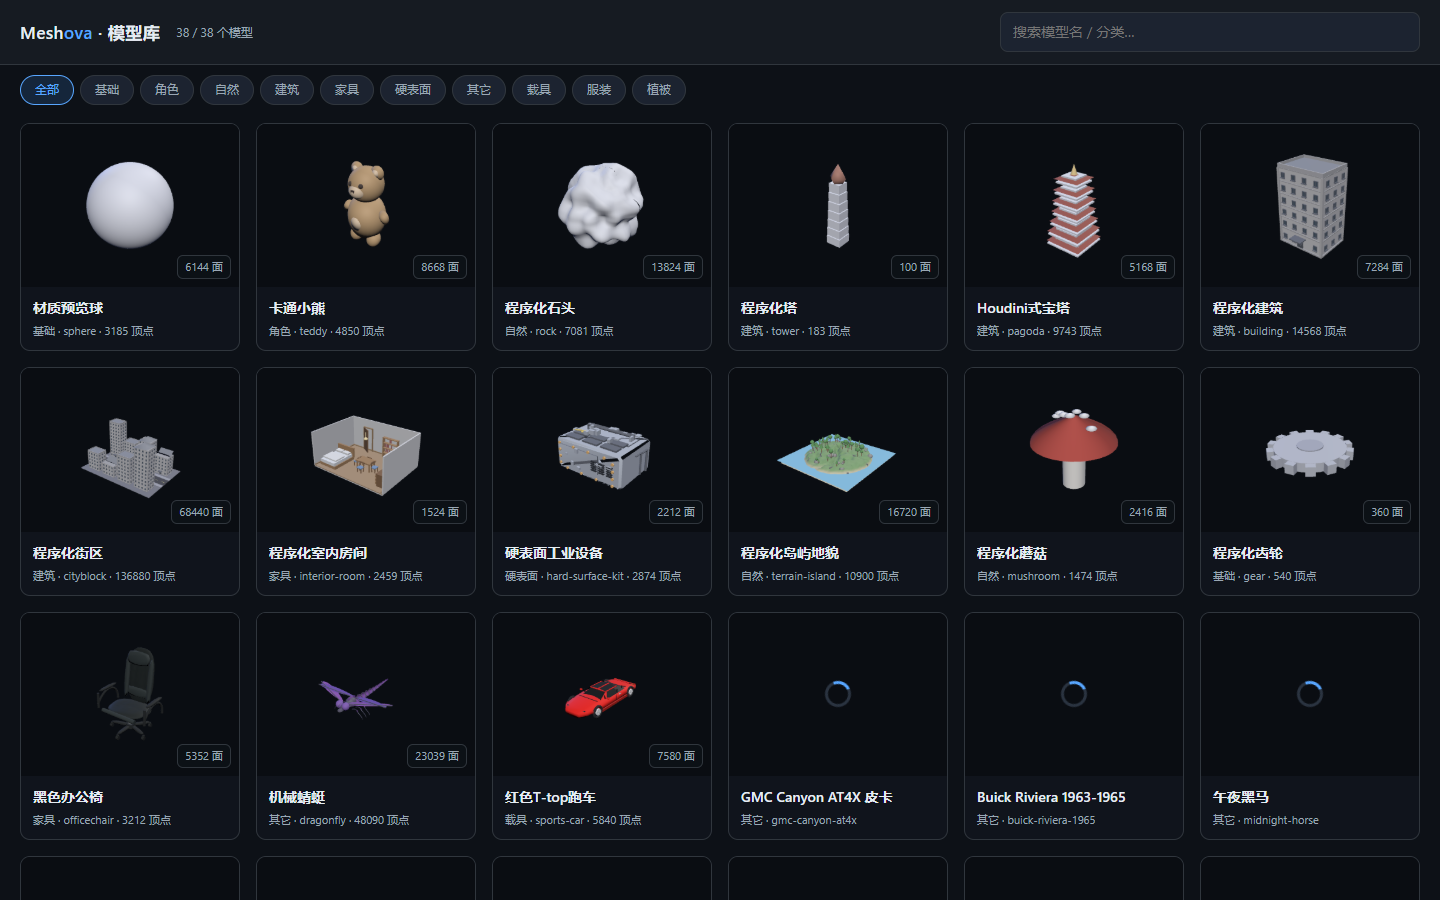
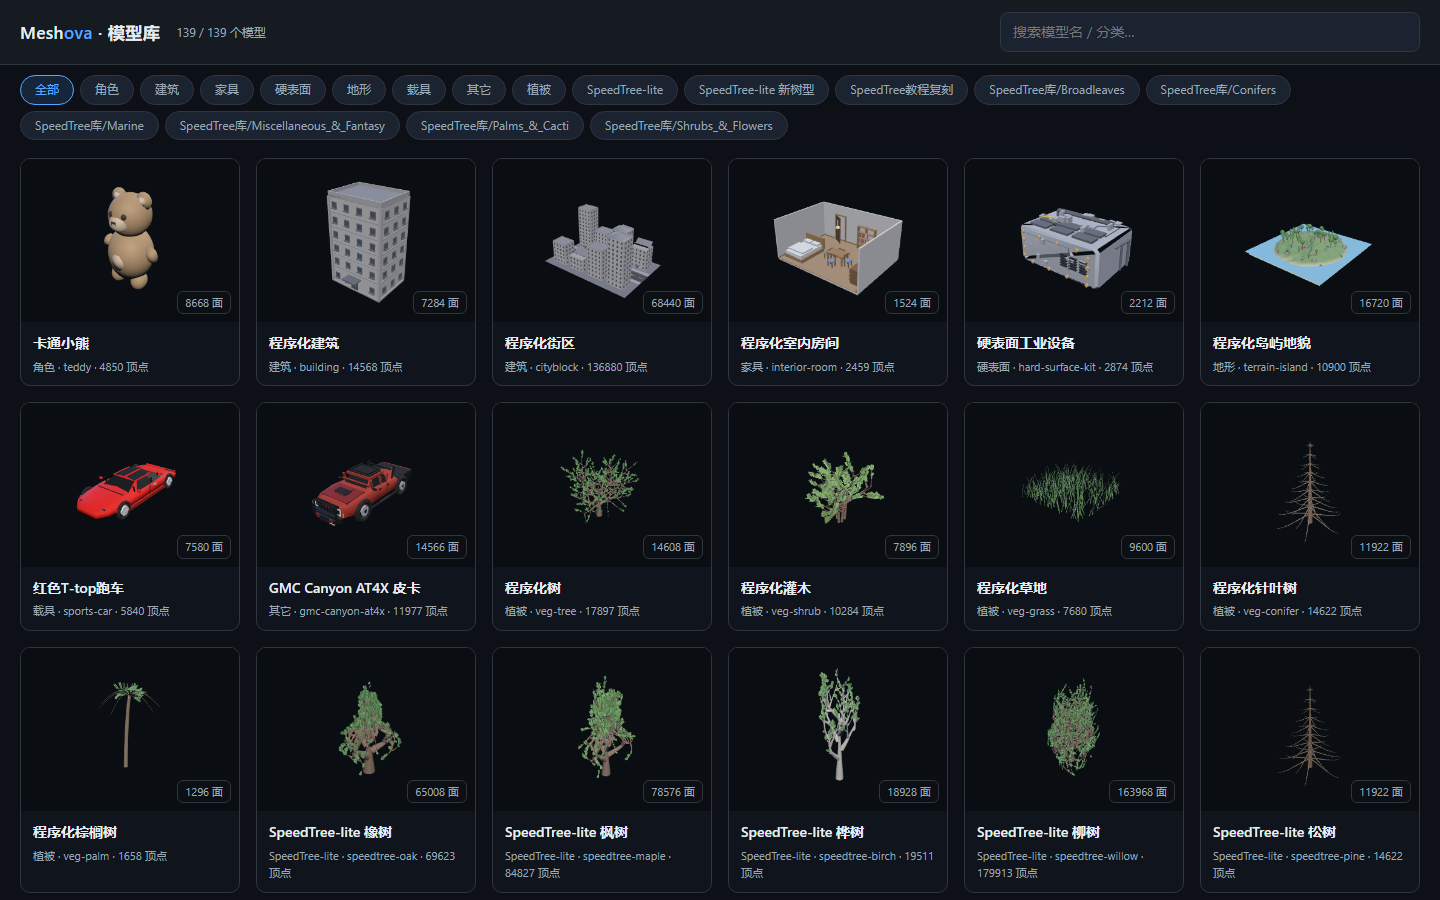
Curate gallery order and refresh README screenshots
Show hand-authored models before SpeedTree entries so the gallery
first screen is representative. Recapture README screenshots from the
fixed build (no stuck thumbnails).

diff --git a/web/gallery.js b/web/gallery.js
@@ -1,5 +1,5 @@
 /**
- * Meshova 模型库 — Sketchfab 风格卡片网格。
+ * Meshova 模型库 — 程序化模型卡片网格。
  *
  * 复用与 viewer/CLI 同一套 /dist 几何库：为每个 PROC_MODEL 用默认参数
  * build() 一次，离屏渲染一张缩略图烘成 dataURL 放进卡片。点击卡片跳转到
@@ -7,6 +7,7 @@
  */
 import * as THREE from "three";
 import { PROC_MODELS, defaultParams } from "/web/procmodels.js";
+import { isGalleryModelVisible } from "/web/model-visibility.js";
 
 // 分类：把模型 id 归到便于浏览的组，未列出的归“其它”。
 const CATEGORY = {
@@ -16,13 +17,79 @@ const CATEGORY = {
   "hard-surface-kit": "硬表面",
   officechair: "家具", wineglass: "家具", "interior-room": "家具",
   tower: "建筑", pagoda: "建筑", building: "建筑", cityblock: "建筑",
-  rock: "自然", mushroom: "自然", meadow: "自然", fterrain: "自然", vine: "自然",
-  "terrain-island": "自然",
+  rock: "自然", mushroom: "自然", meadow: "自然", vine: "自然",
+  fterrain: "地形", "terrain-island": "地形",
   "veg-tree": "植被", "veg-shrub": "植被", "veg-grass": "植被",
-  "veg-conifer": "植被", "veg-palm": "植被",
+  "veg-conifer": "植被", "veg-palm": "植被", "veg-tree-lod": "植被", "veg-garden": "植被",
   sphere: "基础", smooth: "基础", spring: "基础", gear: "基础", csg: "基础",
 };
-const catOf = (id) => CATEGORY[id] || "其它";
+const catOf = (id, fallback) => {
+  if (id === "fterrain" || id.startsWith("terrain-")) return "地形";
+  if (id.startsWith("veg-")) return "植被";
+  if (id.startsWith("speedtree-tutorial-")) return "SpeedTree教程复刻";
+  if (id === "speedtree-species-lineup" || id === "speedtree-guided-canopy" || /^speedtree-(oak|maple|birch|willow|pine|spruce|palm)$/.test(id)) return "SpeedTree-lite";
+  if (id === "speedtree-custom-lineup" || id.startsWith("speedtree-custom-")) return "SpeedTree-lite 新树型";
+  return fallback || CATEGORY[id] || "其它";
+};
+
+function isGeneratedLibraryEntry(m) {
+  if (!m || !m.id || !m.file || PROC_MODELS[m.id] || !isGalleryModelVisible(m.id)) return false;
+  const id = String(m.id);
+  return id.startsWith("speedtree-") || id.startsWith("terrain-") || id.startsWith("veg-") || m.category === "地形" || m.category === "植被";
+}
+
+async function loadGeneratedEntries() {
+  try {
+    const res = await fetch("/out/models.json", { cache: "no-store" });
+    if (!res.ok) return [];
+    const data = await res.json();
+    const models = Array.isArray(data.models) ? data.models : [];
+    return models
+      .filter(isGeneratedLibraryEntry)
+      .map((m) => ({
+        id: m.id,
+        model: { name: m.name || m.id },
+        cat: catOf(m.id, m.category || "生成模型"),
+        generated: true,
+        file: m.file,
+      }));
+  } catch {
+    return [];
+  }
+}
+
+function generatedThumbCandidates(entry) {
+  const base = [
+    `/out/shots/${entry.id}-persp.png`,
+    `/out/shots/${entry.id}-front.png`,
+    `/out/shots/${entry.id}-side.png`,
+    `/out/shots/${entry.id}-top.png`,
+  ];
+  if (entry.id.startsWith("terrain-")) {
+    return [
+      `/out/shots/${entry.id}-orbit35.png`,
+      ...base,
+    ];
+  }
+  return base;
+}
+
+function loadableImage(url) {
+  return new Promise((resolve) => {
+    const img = new Image();
+    img.onload = () => resolve(url);
+    img.onerror = () => resolve(null);
+    img.src = url;
+  });
+}
+
+async function firstLoadableImage(urls) {
+  for (const url of urls) {
+    const ok = await loadableImage(url);
+    if (ok) return ok;
+  }
+  return null;
+}
 
 // 离屏渲染：一个共享 renderer + 场景，逐个模型渲染再 toDataURL。
 const THUMB = 360;
@@ -36,10 +103,75 @@ renderer.outputColorSpace = THREE.SRGBColorSpace;
 const scene = new THREE.Scene();
 scene.background = new THREE.Color(0x0a0d12);
 const camera = new THREE.PerspectiveCamera(35, canvas.width / canvas.height, 0.01, 100);
+const thumbCameraDir = new THREE.Vector3(0.7, 0.55, 0.9).normalize();
 const key = new THREE.DirectionalLight(0xffffff, 2.4); key.position.set(3, 5, 4);
 const fill = new THREE.DirectionalLight(0x88aaff, 0.8); fill.position.set(-4, 1, -2);
 const rim = new THREE.DirectionalLight(0xffffff, 1.0); rim.position.set(0, 3, -5);
 scene.add(key, fill, rim, new THREE.HemisphereLight(0x9fb8ff, 0x202028, 0.7));
+
+const textureLoader = new THREE.TextureLoader();
+const textureCache = new Map();
+
+function resolveTexture(path) {
+  if (!path) return null;
+  if (/^(https?:)?\/\//i.test(path) || path.startsWith("/")) return path;
+  return `/out/${path}`;
+}
+
+function loadTexture(path, { srgb = false, flipY = true } = {}) {
+  const url = resolveTexture(path);
+  if (!url) return null;
+  const key = `${srgb ? "srgb" : "linear"}:${flipY ? "flipY" : "noFlipY"}:${url}`;
+  if (textureCache.has(key)) return textureCache.get(key);
+  const tex = textureLoader.load(url);
+  tex.colorSpace = srgb ? THREE.SRGBColorSpace : THREE.NoColorSpace;
+  tex.flipY = flipY;
+  tex.wrapS = THREE.RepeatWrapping;
+  tex.wrapT = THREE.RepeatWrapping;
+  textureCache.set(key, tex);
+  return tex;
+}
+
+function materialForViewerPart(part, hasVColors) {
+  const c = part.color || [0.8, 0.8, 0.8];
+  const mat = new THREE.MeshStandardMaterial({
+    color: hasVColors ? 0xffffff : new THREE.Color(c[0], c[1], c[2]),
+    vertexColors: hasVColors,
+    roughness: 0.62,
+    metalness: 0.05,
+  });
+  const t = part.textures;
+  if (!t) return mat;
+  const baseColor = loadTexture(t.baseColor, { srgb: true });
+  const normal = loadTexture(t.normal);
+  const orm = loadTexture(t.orm);
+  const roughness = loadTexture(t.roughness);
+  const metallic = loadTexture(t.metallic);
+  const ao = loadTexture(t.ao);
+  if (baseColor) {
+    mat.map = baseColor;
+    mat.color.setRGB(1, 1, 1);
+  }
+  if (normal) mat.normalMap = normal;
+  if (orm) {
+    mat.aoMap = orm;
+    mat.roughnessMap = orm;
+    mat.metalnessMap = orm;
+    mat.roughness = 1;
+    mat.metalness = 1;
+  } else {
+    if (ao) mat.aoMap = ao;
+    if (roughness) {
+      mat.roughnessMap = roughness;
+      mat.roughness = 1;
+    }
+    if (metallic) {
+      mat.metalnessMap = metallic;
+      mat.metalness = 1;
+    }
+  }
+  return mat;
+}
 
 function meshToGeo(mesh) {
   const n = mesh.positions.length;
@@ -57,6 +189,47 @@ function meshToGeo(mesh) {
   return geo;
 }
 
+function viewerPartToGeo(part) {
+  const positions = Array.isArray(part?.positions) ? part.positions : [];
+  if (positions.length < 9) return null;
+  const geo = new THREE.BufferGeometry();
+  geo.setAttribute("position", new THREE.BufferAttribute(new Float32Array(positions), 3));
+  if (Array.isArray(part.normals) && part.normals.length === positions.length) {
+    geo.setAttribute("normal", new THREE.BufferAttribute(new Float32Array(part.normals), 3));
+  }
+  const vertCount = positions.length / 3;
+  if (Array.isArray(part.uvs) && part.uvs.length === vertCount * 2) {
+    geo.setAttribute("uv", new THREE.BufferAttribute(new Float32Array(part.uvs), 2));
+  }
+  if (Array.isArray(part.colors) && part.colors.length === positions.length) {
+    geo.setAttribute("color", new THREE.BufferAttribute(new Float32Array(part.colors), 3));
+  }
+  if (Array.isArray(part.indices) && part.indices.length > 0) {
+    geo.setIndex([...part.indices]);
+  }
+  if (!geo.getAttribute("normal")) geo.computeVertexNormals();
+  return geo;
+}
+
+function frameRoot(root) {
+  const bbox = new THREE.Box3().setFromObject(root);
+  const center = new THREE.Vector3(); bbox.getCenter(center);
+  const size = new THREE.Vector3(); bbox.getSize(size);
+  if (!Number.isFinite(size.x) || !Number.isFinite(size.y) || !Number.isFinite(size.z) || size.length() <= 1e-6) {
+    center.set(0, 0, 0);
+    size.set(1, 1, 1);
+  }
+  root.position.set(-center.x, -center.y, -center.z);
+  const radius = Math.max(1e-3, size.length() * 0.5);
+  const fov = (camera.fov * Math.PI) / 180;
+  const dist = (radius / Math.sin(fov * 0.5)) * 1.18;
+  camera.near = Math.max(0.01, dist - radius * 2.4);
+  camera.far = dist + radius * 2.4;
+  camera.updateProjectionMatrix();
+  camera.position.copy(thumbCameraDir).multiplyScalar(dist);
+  camera.lookAt(0, 0, 0);
+}
+
 // 为一个模型渲染缩略图，返回 { url, verts, tris }。
 async function renderThumb(model) {
   const params = model.defaultParams ? model.defaultParams() : defaultParams(model);
@@ -69,29 +242,44 @@ async function renderThumb(model) {
     tris += part.mesh.indices.length / 3;
     const hasVColors = Array.isArray(part.colors) && part.colors.length === part.mesh.positions.length * 3;
     if (hasVColors) geo.setAttribute("color", new THREE.BufferAttribute(new Float32Array(part.colors), 3));
-    const c = part.color || [0.8, 0.8, 0.8];
-    const mat = new THREE.MeshStandardMaterial({
-      color: hasVColors ? 0xffffff : new THREE.Color(c[0], c[1], c[2]),
-      vertexColors: hasVColors, roughness: 0.62, metalness: 0.05,
-    });
+    const mat = materialForViewerPart(part, hasVColors);
     root.add(new THREE.Mesh(geo, mat));
   }
   scene.add(root);
 
   // 居中 + 框定相机到包围盒。
-  const bbox = new THREE.Box3().setFromObject(root);
-  const center = new THREE.Vector3(); bbox.getCenter(center);
-  const size = new THREE.Vector3(); bbox.getSize(size);
-  root.position.set(-center.x, -center.y, -center.z);
-  const radius = Math.max(size.x, size.y, size.z) * 0.5 || 1;
-  const dist = radius / Math.tan((camera.fov * Math.PI/180) / 2) * 1.5;
-  camera.position.set(dist * 0.7, dist * 0.55, dist * 0.9);
-  camera.lookAt(0, 0, 0);
+  frameRoot(root);
 
   renderer.render(scene, camera);
   const url = canvas.toDataURL("image/png");
 
   // 清理本次的几何/材质，避免 GPU 泄漏。
+  scene.remove(root);
+  root.traverse((o) => { if (o.isMesh) { o.geometry.dispose(); o.material.dispose(); } });
+  return { url, verts, tris };
+}
+
+function renderViewerModelThumb(viewerModel) {
+  const root = new THREE.Group();
+  let verts = 0, tris = 0;
+  const parts = Array.isArray(viewerModel) ? viewerModel : (viewerModel?.parts || []);
+  for (const part of parts) {
+    const geo = viewerPartToGeo(part);
+    if (!geo) continue;
+    const pos = geo.getAttribute("position");
+    const index = geo.getIndex();
+    verts += pos.count;
+    tris += (index ? index.count : pos.count) / 3;
+    const hasVColors = !!geo.getAttribute("color");
+    const mat = materialForViewerPart(part, hasVColors);
+    mat.side = THREE.DoubleSide;
+    root.add(new THREE.Mesh(geo, mat));
+  }
+  if (root.children.length === 0) throw new Error("模型无可渲染几何");
+  scene.add(root);
+  frameRoot(root);
+  renderer.render(scene, camera);
+  const url = canvas.toDataURL("image/png");
   scene.remove(root);
   root.traverse((o) => { if (o.isMesh) { o.geometry.dispose(); o.material.dispose(); } });
   return { url, verts, tris };
@@ -103,7 +291,15 @@ const countEl = document.getElementById("count");
 const catsEl = document.getElementById("cats");
 const searchEl = document.getElementById("search");
 
-const entries = Object.entries(PROC_MODELS).map(([id, model]) => ({ id, model, cat: catOf(id) }));
+const generatedEntries = await loadGeneratedEntries();
+const procEntries = Object.entries(PROC_MODELS)
+  .filter(([id]) => isGalleryModelVisible(id))
+  .map(([id, model]) => ({ id, model, cat: catOf(id), generated: false }));
+const entries = [
+  ...procEntries.filter((e) => !e.id.startsWith("speedtree-")),
+  ...procEntries.filter((e) => e.id.startsWith("speedtree-")),
+  ...generatedEntries,
+];
 let activeCat = "全部";
 let query = "";
 
@@ -128,11 +324,15 @@ const cards = entries.map((e) => {
   card.dataset.name = e.model.name;
   card.dataset.id = e.id;
   card.dataset.cat = e.cat;
+  const sub = e.generated ? `${e.cat} · ${e.file}` : `${e.cat} · ${e.id}`;
   card.innerHTML =
     `<div class="thumb"><div class="spin"></div></div>` +
     `<div class="meta"><span class="name">${e.model.name}</span>` +
-    `<span class="sub">${e.cat} · ${e.id}</span></div>`;
-  card.onclick = () => { location.href = `/web/index.html?model=${encodeURIComponent(e.id)}`; };
+    `<span class="sub">${sub}</span></div>`;
+  card.onclick = () => {
+    const modelParam = e.generated ? (e.file || `${e.id}.json`) : e.id;
+    location.href = `/web/index.html?model=${encodeURIComponent(modelParam)}`;
+  };
   grid.appendChild(card);
   return { ...e, card };
 });
@@ -159,10 +359,46 @@ function applyFilter() {
 searchEl.oninput = () => { query = searchEl.value; applyFilter(); };
 applyFilter();
 
+async function fillGeneratedCard(entry) {
+  const thumb = entry.card.querySelector(".thumb");
+  try {
+    const res = await fetch(`/out/${entry.file}`, { cache: "no-store" });
+    if (!res.ok) throw new Error("模型文件不存在");
+    const model = await res.json();
+    let tris = Math.round(model?.meta?.tris ?? 0);
+    let verts = Math.round(model?.meta?.verts ?? 0);
+    const img = await firstLoadableImage(generatedThumbCandidates(entry));
+    let thumbUrl = img;
+    if (!thumbUrl) {
+      const rendered = renderViewerModelThumb(model);
+      thumbUrl = rendered.url;
+      if (!tris) tris = Math.round(rendered.tris);
+      if (!verts) verts = Math.round(rendered.verts);
+    }
+    thumb.innerHTML = `<img src="${thumbUrl}" alt="${entry.model.name}" />`;
+    thumb.innerHTML += `<span class="badge">${tris} 面</span>`;
+    const meta = model?.meta || {};
+    const bits = [entry.cat, `${tris} 面`];
+    if (verts) bits.push(`${verts} 顶点`);
+    if (entry.id.startsWith("terrain-") && typeof meta.waterCoverage === "number") {
+      bits.push(`水域 ${Math.round(meta.waterCoverage * 100)}%`);
+    }
+    entry.card.querySelector(".sub").textContent = bits.join(" · ");
+    if (meta.description) entry.card.title = meta.description;
+  } catch (e) {
+    thumb.innerHTML = `<span style="color:#ff7b72;font-size:12px;padding:8px;text-align:center">加载失败<br>${e?.message || e}</span>`;
+  }
+}
+
 // 逐个烘缩略图（顺序执行，避免同时占满 GPU；让出主线程保持 UI 响应）。
 (async () => {
-  for (const { card, model } of cards) {
+  for (const entry of cards.filter((card) => card.generated)) {
+    await fillGeneratedCard(entry);
+  }
+  for (const entry of cards) {
+    const { card, model } = entry;
     const thumb = card.querySelector(".thumb");
+    if (entry.generated) continue;
     try {
       const { url, verts, tris } = await renderThumb(model);
       thumb.innerHTML =